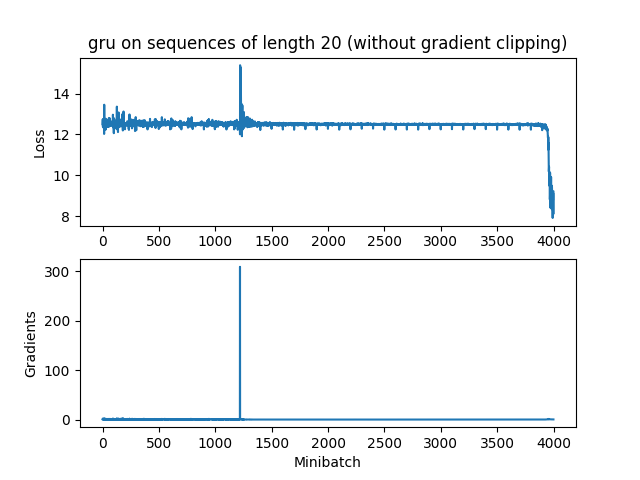
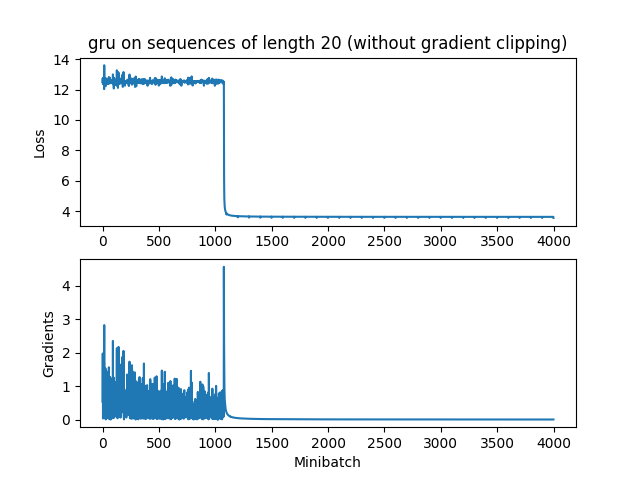
adjust parameter for question 3

diff --git a/assignment3/q3_gru_cell.py b/assignment3/q3_gru_cell.py
@@ -65,17 +65,18 @@ class GRUCell(tf.nn.rnn_cell.RNNCell):
         # be defined elsewhere!
         with tf.variable_scope(scope):
             ### YOUR CODE HERE (~20-30 lines)
-            W_z = tf.get_variable(name="W_z", shape=(self.input_size, self.state_size), dtype=tf.float32, \
-                                  initializer=tf.contrib.layers.xavier_initializer())
-            U_z = tf.get_variable(name="U_z", shape=(self.state_size, self.state_size), dtype=tf.float32, \
-                                  initializer=tf.contrib.layers.xavier_initializer())
-            b_z = tf.get_variable(name="b_z", shape=(self.state_size), dtype=tf.float32, \
-                                  initializer=tf.constant_initializer(np.zeros((self.state_size))))
+            # note Important notice in question 3 (e) the init order should be W_r, U_r, b_r, W_z, U_z, b_z, W_o, U_o, b_o
             W_r = tf.get_variable(name="W_r", shape=(self.input_size, self.state_size), dtype=tf.float32, \
                                   initializer=tf.contrib.layers.xavier_initializer())
             U_r = tf.get_variable(name="U_r", shape=(self.state_size, self.state_size), dtype=tf.float32, \
                                   initializer=tf.contrib.layers.xavier_initializer())
             b_r = tf.get_variable(name="b_r", shape=(self.state_size), dtype=tf.float32, \
+                                  initializer=tf.constant_initializer(np.zeros((self.state_size))))
+            W_z = tf.get_variable(name="W_z", shape=(self.input_size, self.state_size), dtype=tf.float32, \
+                                  initializer=tf.contrib.layers.xavier_initializer())
+            U_z = tf.get_variable(name="U_z", shape=(self.state_size, self.state_size), dtype=tf.float32, \
+                                  initializer=tf.contrib.layers.xavier_initializer())
+            b_z = tf.get_variable(name="b_z", shape=(self.state_size), dtype=tf.float32, \
                                   initializer=tf.constant_initializer(np.zeros((self.state_size))))
             W_o = tf.get_variable(name="W_o", shape=(self.input_size, self.state_size), dtype=tf.float32, \
                                   initializer=tf.contrib.layers.xavier_initializer())

diff --git a/assignment3/q2_rnn_cell.py b/assignment3/q2_rnn_cell.py
@@ -62,12 +62,13 @@ class RNNCell(tf.nn.rnn_cell.RNNCell):
         # be defined elsewhere!
         with tf.variable_scope(scope):
             ### YOUR CODE HERE (~6-10 lines)
-            b = tf.get_variable(name="b", shape=(self.state_size), dtype=tf.float32, \
-                                initializer=tf.constant_initializer(np.zeros((self.state_size))))
-            W_x = tf.get_variable(name="W_x", shape=(self.input_size, self.state_size), dtype=tf.float32, \
-                                  initializer=tf.contrib.layers.xavier_initializer())
+            # note Important notice in question 3 (e) the init order should be W_h, W_x and b
             W_h = tf.get_variable(name="W_h", shape=(self.state_size, self.state_size), dtype=tf.float32, \
                                   initializer=tf.contrib.layers.xavier_initializer())
+            W_x = tf.get_variable(name="W_x", shape=(self.input_size, self.state_size), dtype=tf.float32, \
+                                  initializer=tf.contrib.layers.xavier_initializer())
+            b = tf.get_variable(name="b", shape=(self.state_size), dtype=tf.float32, \
+                                initializer=tf.constant_initializer(np.zeros((self.state_size))))
             new_state = tf.nn.sigmoid(tf.matmul(inputs, W_x) + tf.matmul(state, W_h) + b)
             ### END YOUR CODE ###
         # For an RNN , the output and state are the same (N.B. this
